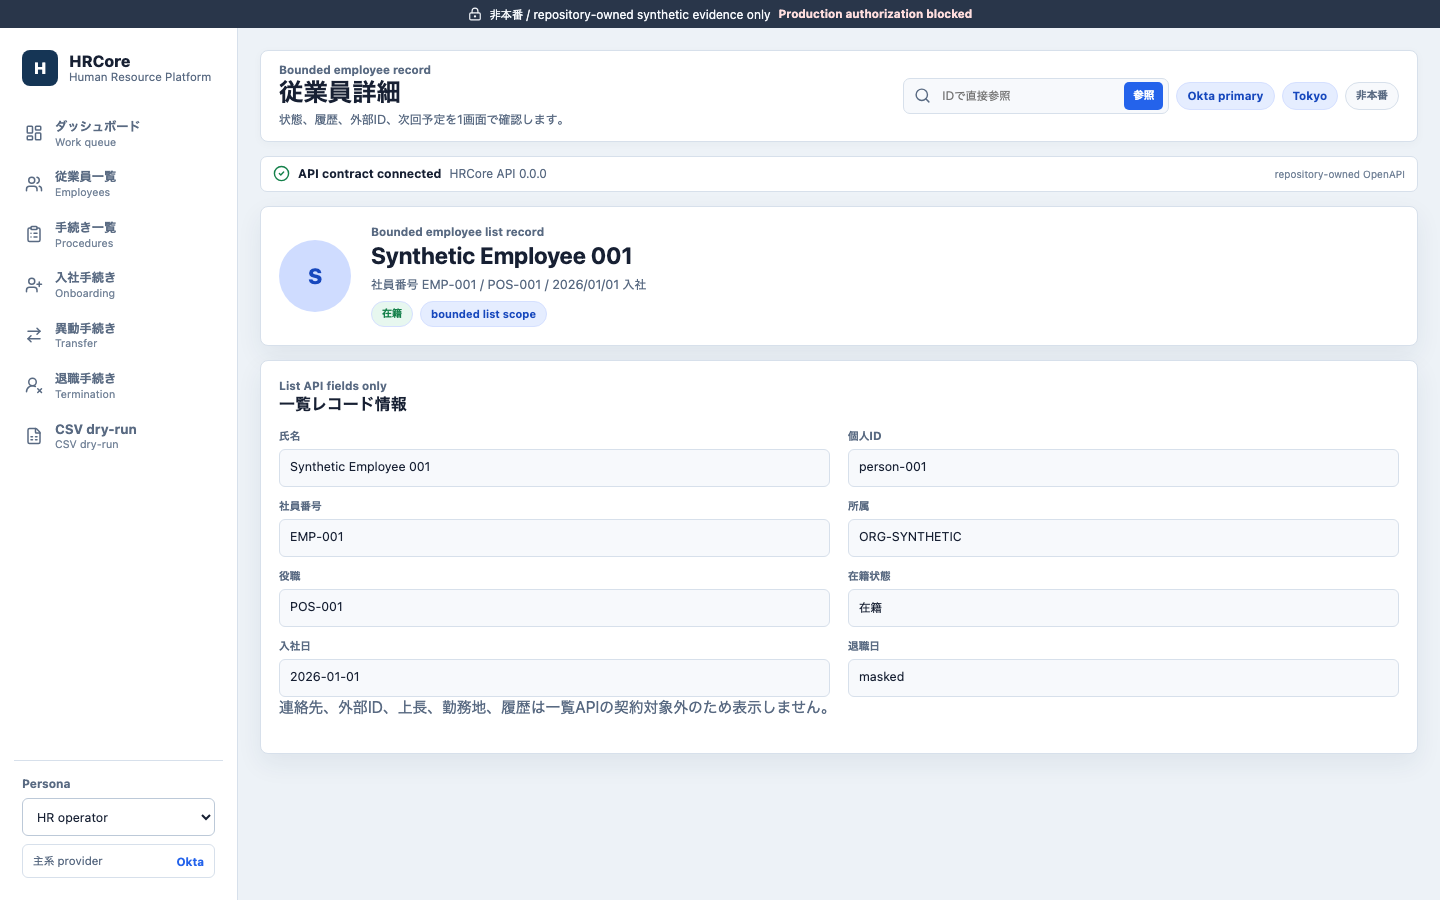
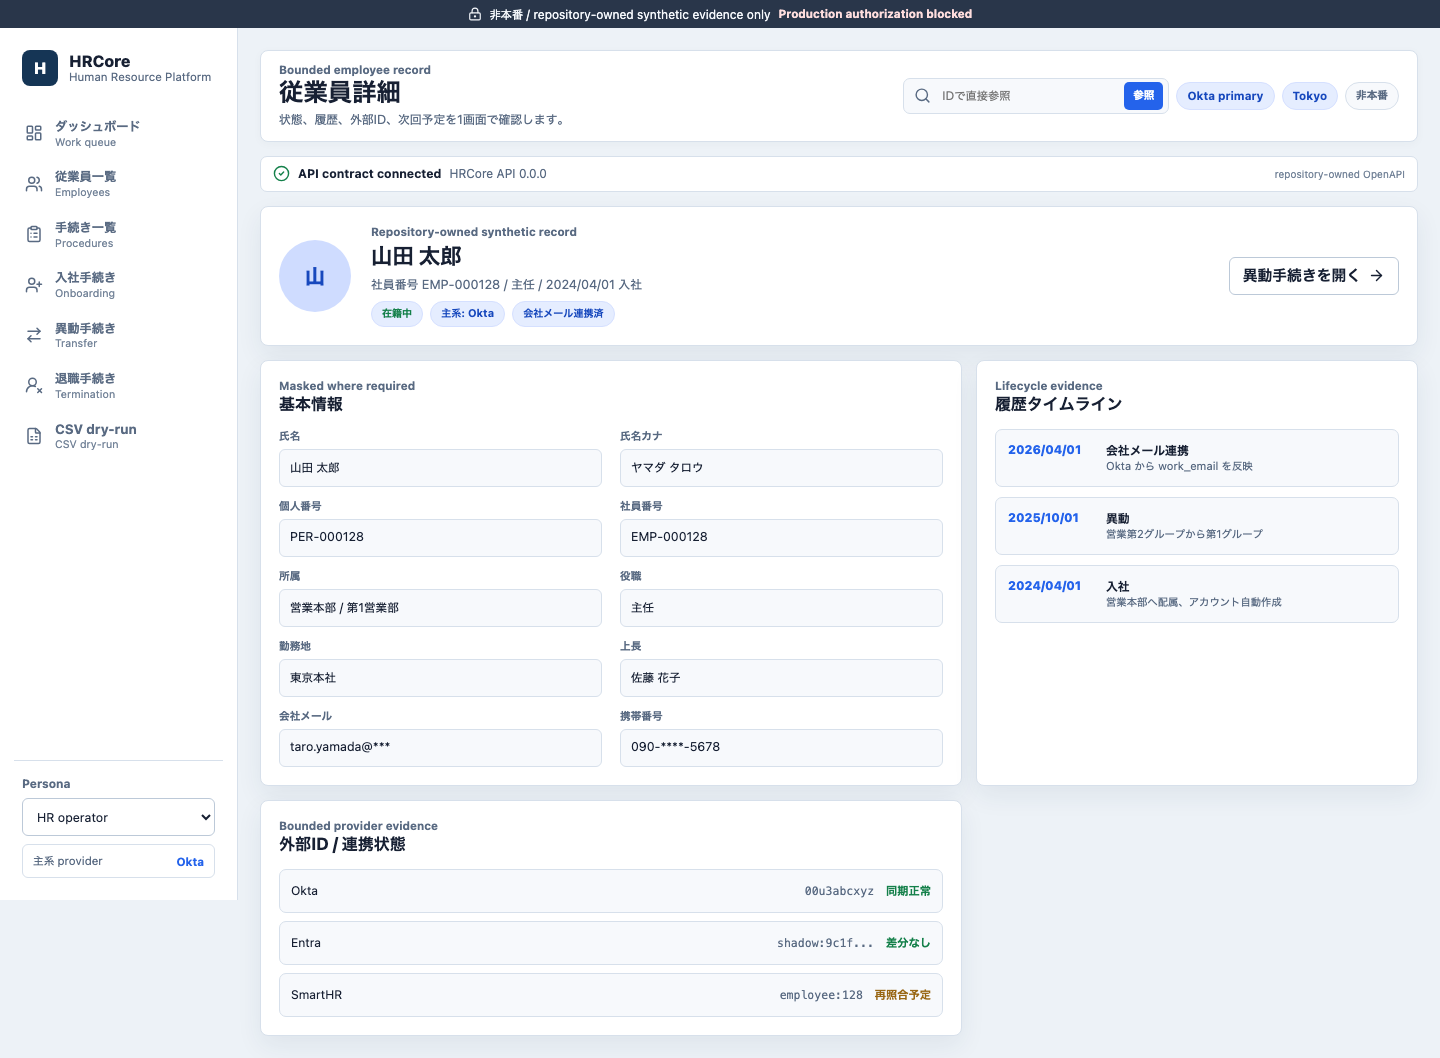
harden P2Z evidence source coverage

diff --git a/src/p2z-webui-visual-evidence-integrity.ts b/src/p2z-webui-visual-evidence-integrity.ts
@@ -19,6 +19,7 @@ const p2zVisualEvidenceSourceFiles = [
   "package-lock.json",
   "package.json",
   "playwright.config.ts",
+  "src/p2list-contract.ts",
   "src/p2z-webui-visual-evidence-contract.ts",
   "src/p2z-webui-visual-evidence-integrity.ts",
   "vite.config.ts",
@@ -68,6 +69,12 @@ export function isP2zPngEvidenceFile(file: string): boolean {
 
 export function normalizeP2zVisualEvidenceSourcePath(file: string): string {
   return file.replaceAll("\\", "/");
+}
+
+export function canonicalizeP2zVisualEvidenceSourceContents(
+  contents: Buffer,
+): Buffer {
+  return Buffer.from(contents.toString("utf8").replaceAll("\r\n", "\n"));
 }
 
 export function p2zVisualEvidenceCaptureProvenanceFile(
@@ -301,7 +308,9 @@ export async function readP2zVisualEvidenceSourceState(
   const hash = createHash(p2zVisualEvidenceSourceAlgorithm);
 
   for (const file of files) {
-    const contents = await readFile(path.join(rootDirectory, file));
+    const contents = canonicalizeP2zVisualEvidenceSourceContents(
+      await readFile(path.join(rootDirectory, file)),
+    );
     hash.update(file);
     hash.update("\0");
     hash.update(String(contents.length));

diff --git a/web/e2e/visual-alignment.spec.ts b/web/e2e/visual-alignment.spec.ts
@@ -466,6 +466,24 @@ test("matches the bounded practical-use visual contract", async ({
   await expect(
     page.getByRole("heading", { name: "外部ID / 連携状態" }),
   ).toHaveCount(0);
+
+  await page
+    .getByRole("textbox", { name: "Bounded record ID" })
+    .fill("EMP-000128");
+  await page.getByRole("button", { name: "参照", exact: true }).click();
+  await page.reload();
+  await selectPersona(page, "hr-operator");
+  await expect(page.getByRole("heading", { name: "基本情報" })).toBeVisible();
+  await expect(
+    page.getByRole("heading", { name: "履歴タイムライン" }),
+  ).toBeVisible();
+  await expect(
+    page.getByRole("heading", { name: "外部ID / 連携状態" }),
+  ).toBeVisible();
+  await expect(page.getByText("taro.yamada@***")).toBeVisible();
+  await expect(
+    page.getByRole("button", { name: "異動手続きを開く" }),
+  ).toBeVisible();
   await assertNoHorizontalOverflow(page);
   await capture(page, testInfo, p2zVisualEvidenceScreens.employeeDetail);
 

diff --git a/src/p2z-webui-visual-alignment.test.ts b/src/p2z-webui-visual-alignment.test.ts
@@ -14,6 +14,7 @@ import {
   validateP2zVisualEvidenceInventory,
 } from "./p2z-webui-visual-evidence-contract.js";
 import {
+  canonicalizeP2zVisualEvidenceSourceContents,
   inspectP2zPng,
   isP2zPngEvidenceFile,
   normalizeP2zVisualEvidenceSourcePath,
@@ -466,6 +467,13 @@ test("P2Z evidence manifest rejects inventory, digest, and viewport drift", asyn
   );
   assert.ok(currentSource.files.includes(contractPath));
   assert.ok(currentSource.files.includes("openapi/hrcore.openapi.json"));
+  assert.ok(currentSource.files.includes("src/p2list-contract.ts"));
+  assert.deepEqual(
+    canonicalizeP2zVisualEvidenceSourceContents(
+      Buffer.from("first\r\nsecond\r\n"),
+    ),
+    Buffer.from("first\nsecond\n"),
+  );
   assert.deepEqual(
     validateEvidenceManifest(manifest, matchingEvidence, currentSource),
     [],
